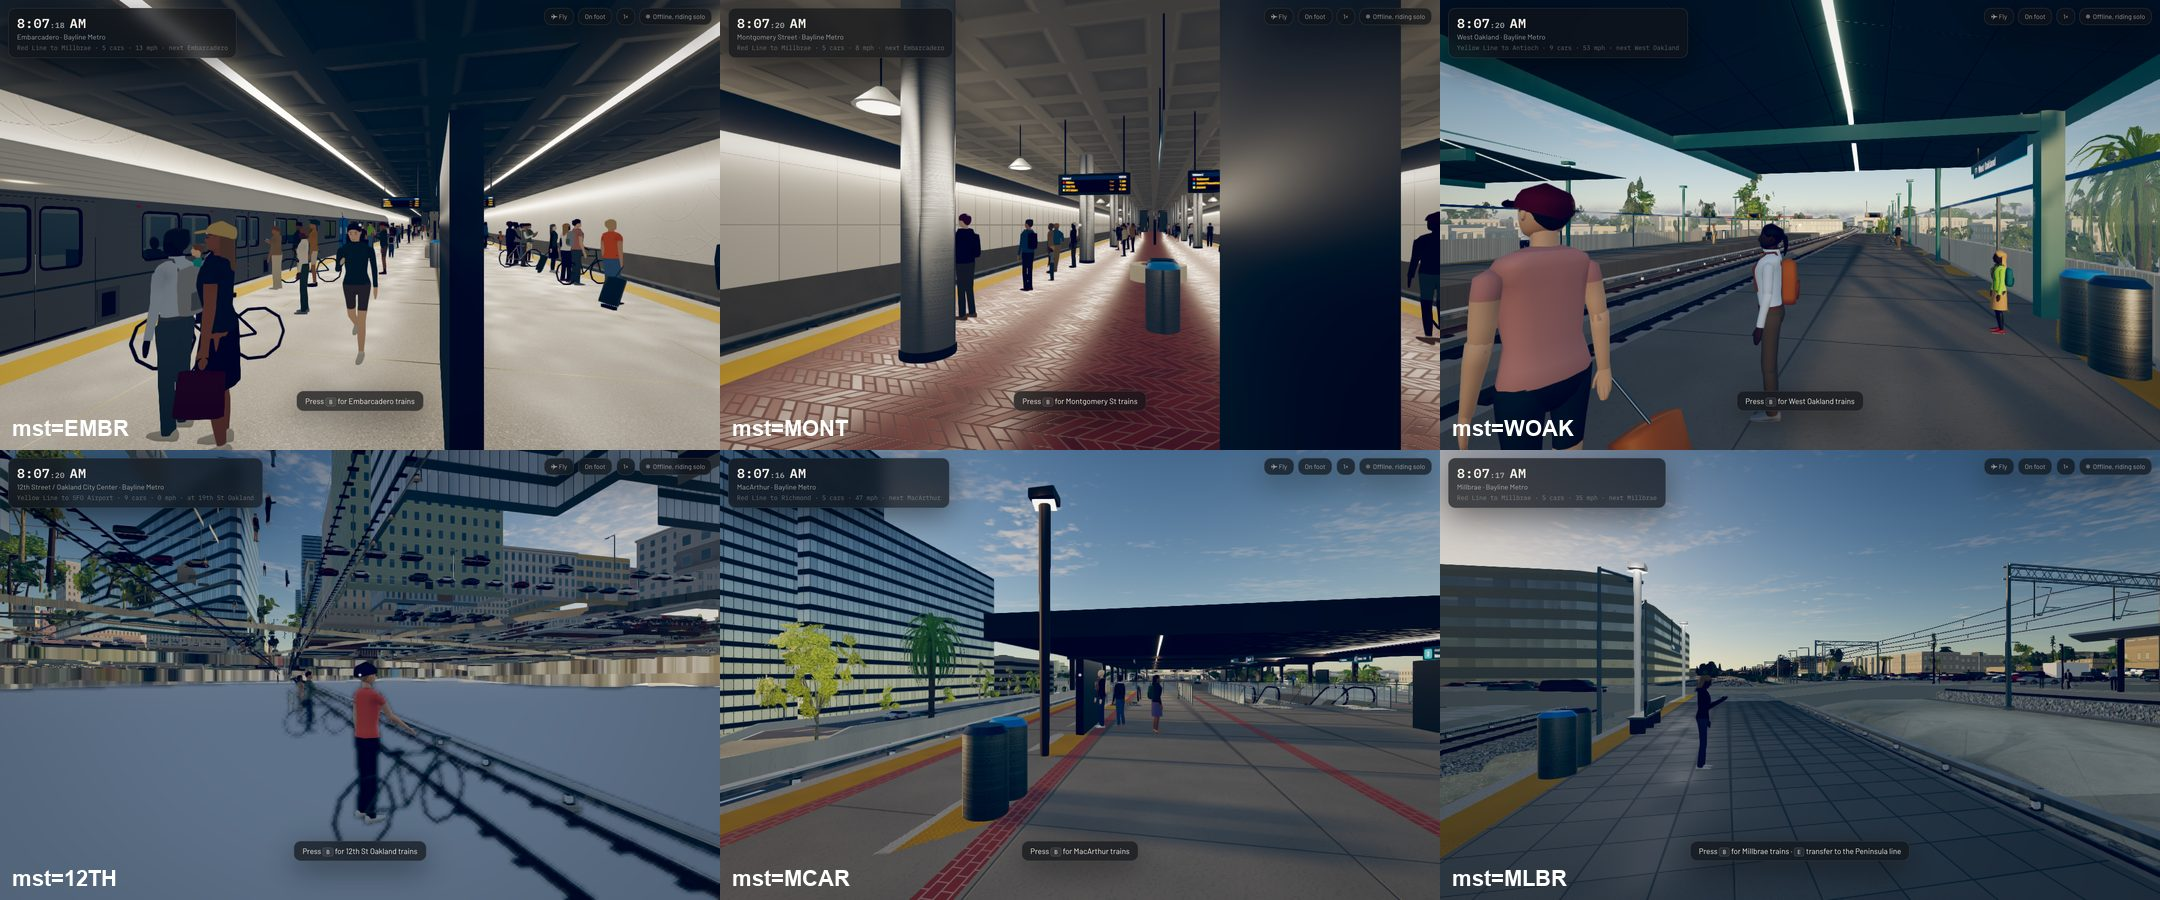
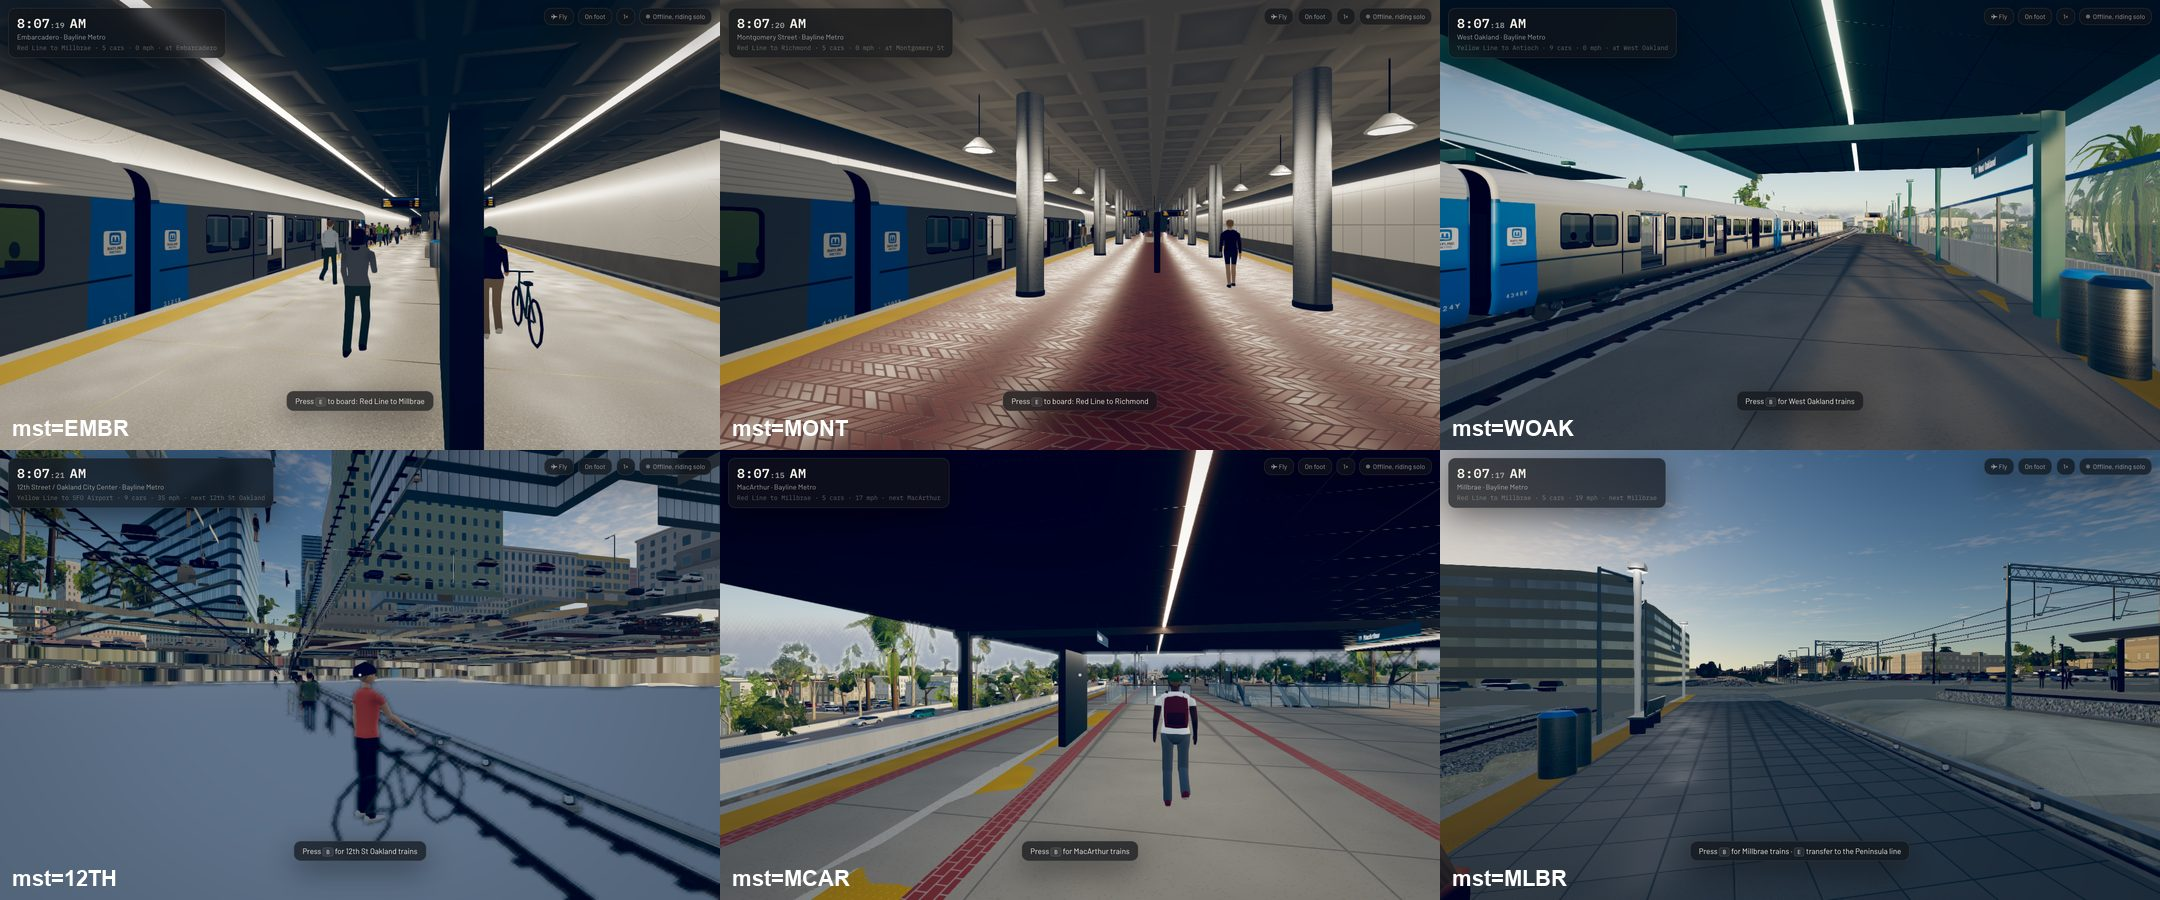
sim: status (post-fix drive, ATC and spawns)
Claude-Session: https://claude.ai/code/session_01R1nKudeV9L3TUCtxsMCPg9

diff --git a/notes/bart/sim.md b/notes/bart/sim.md
@@ -129,7 +129,14 @@ ATC civil code is MetroNet's code per segment (6/18/27/36/50/70; no more 5 mph f
   due there (Red to Richmond, dwelling at Embarcadero).
 - **Metro manual drive** (`qa_metro_drive.js`, keyboard only, WOAK → Civic Center): Embarcadero 0.57 m from the berth
   ("Good stop", on time), Montgomery 0.66 m, Powell 0.71 m, Civic Center 0.66 m ("On the berth"), all on time, 0
-  warnings / ATC brakes / penalties, max 67 mph, score 850.
+  warnings / ATC brakes / penalties, max 67 mph, score 850. Re-run after the envelope fix: Embarcadero 0.67 m (one ATC
+  overspeed brake on the approach: the scripted driver met an occupancy step behind the train ahead), Montgomery
+  0.73 m, Powell 0.75 m, all on time, 0 penalties.
+- **Metro ATC after the envelope fix**: 23 WARN, 22 ATC BRAKE, 0 penalty, codes 70/50/36/27, traction during an ATC
+  brake in 2 samples.
+- **Platform spawns after the envelope fix** (contact sheet `notes/bart/shots/sim/mst_platform_spawns.jpg`): EMBR, MONT
+  and WOAK now show the dwelling MetroKit train beside the walker, with the view open up the platform (MONT between
+  its column rows); MCAR, MLBR fine; 12TH lower level still without its station box (request below).
 - **Missions**: all seven start: Under the Bay, Market Street (manual), Berkeley Hills and Airport Reversal in the cab
   ("You have the Red Line to Millbrae", through the SFO reversal), Commute at Embarcadero, the Cable Train (3-car
   Airport Connector) and the Antioch Shuttle ("1-unit") rides. (Airport Reversal found no train on the first try: the
